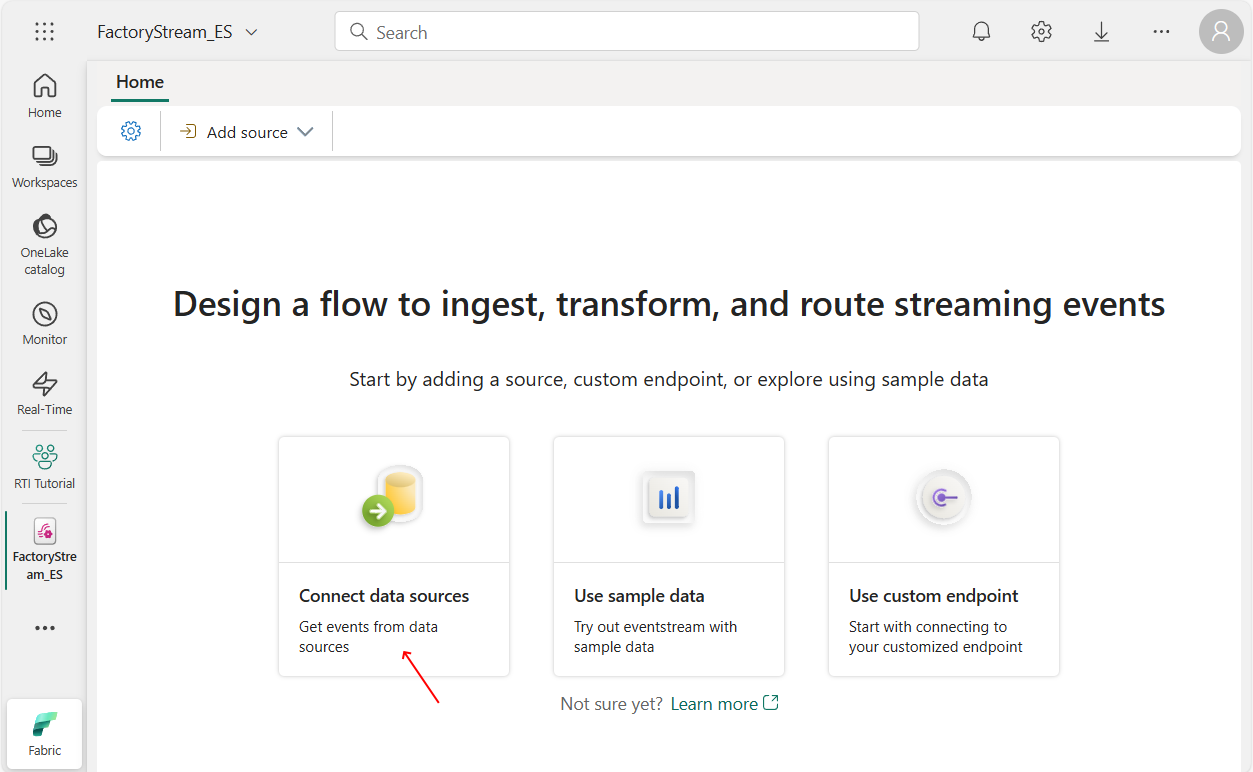
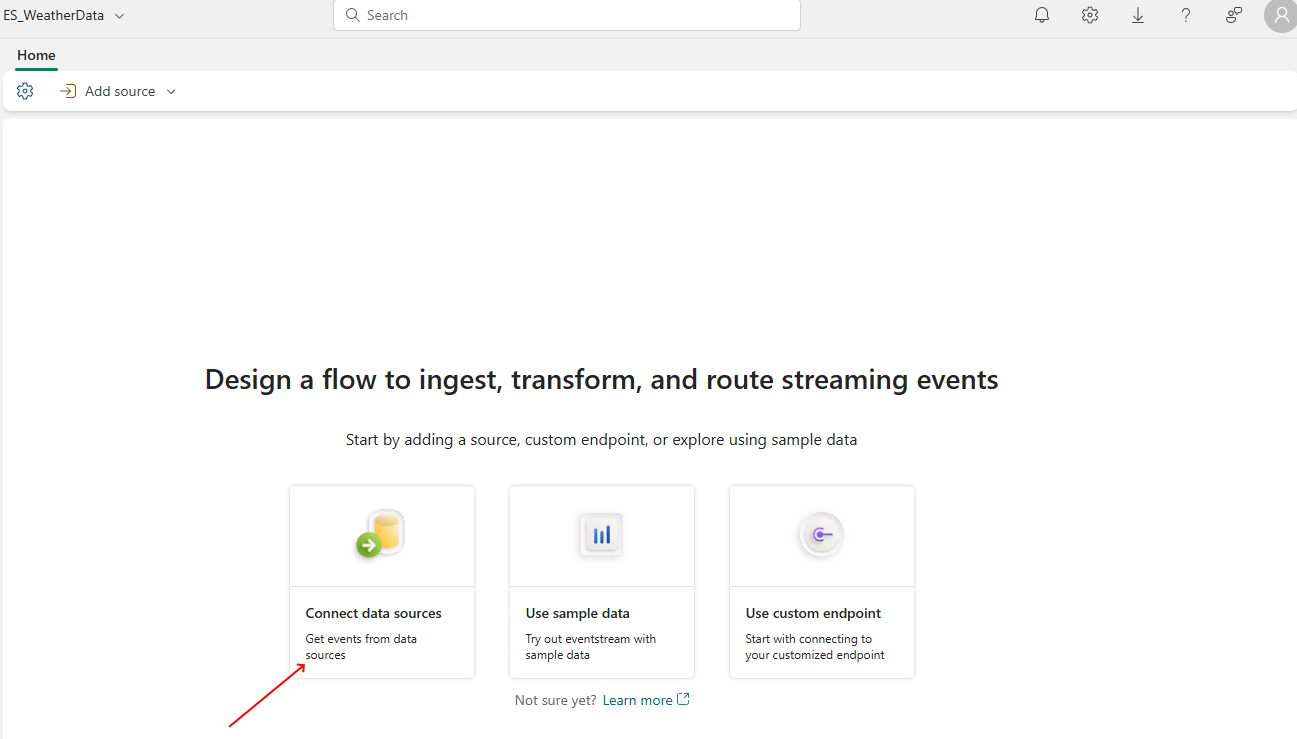
Fixed existing weather eventstream usage

diff --git a/docs/workshop.md b/docs/workshop.md
@@ -395,7 +395,7 @@ For this workshop, Fabric items relevant for this workshop have been pre-created
 
 Steps to execute
 
-1. In your workspace, navigate to 'EH_YCSneakerEventStore' Eventhouse.
+1. In your workspace, navigate to the existing 'EH_YCSneakerEventStore' Eventhouse.
 
 2. In the eventhouse main page, click on KQL Database of the same name 'EH_YCSneakerEventStore'.
 
@@ -459,7 +459,7 @@ Notice that the electric motor starts and stops every 15 minutes so you will see
 
    ![alt text](assets/rtiLabArchitecture_workshop_4.png)
 
-1. **Select your Workspace** in the left pane. In our example, it is `RTI Tutorial`. If you have been assigned a Workspace at the start of this lab, **choose the workspace name** that was provided to you. **Open** the Eventstream named `ES_EnergyMeter` already provided. On the Screen 'Design a flow to ingest, transform, and route streaming events' **click** on `Connect data sources`.
+1. **Open** the Eventstream named `ES_EnergyMeter`, already provided in the 'Factory events folder'. On the Screen 'Design a flow to ingest, transform, and route streaming events' **click** on `Connect data sources`.
 
    ![alt text](assets/image_task04_step03.png)
 
@@ -767,7 +767,7 @@ You will ingest the LoraWan data from an Azure Event Hub.
 
    ![alt text](assets/rtiLabArchitecture_workshop_5.png)
 
-1. **Select your Workspace** in the left pane. In our example, it is `RTI Tutorial`. If you have been assigned a Workspace at the start of this lab, **choose the workspace name** that was provided to you. **Open** the Eventstream named `ES_LoraWanStream` already provided. On the Screen 'Design a flow to ingest, transform, and route streaming events' **click** on `Connect data sources`.
+1. **Open** the Eventstream named `ES_LoraWanStream`, already provided in the 'Factory events folder'. On the Screen 'Design a flow to ingest, transform, and route streaming events' **click** on `Connect data sources`.
 
    ![alt text](assets/image_task05_step03.png)
 
@@ -863,7 +863,6 @@ You will ingest the LoraWan data from an Azure Event Hub.
 | 2 | deviceId | string | $.end_device_ids.device_id |
 | 3 | applicationId | string | $.end_device_ids.application_ids.application_id |
 | 4 | timestamp | datetime | $.received_at |
-
 
 24. **Apply** the mapping.
 
@@ -1069,109 +1068,101 @@ In this section, we will add real-time weather data events. These events are str
 
    ![alt text](assets/rtiLabArchitecture_workshop_7.png)
 
-1. Select your Workspace in the left pane. In our example, it is `RTI Tutorial`. If you have been assigned a Workspace at the start of this lab, choose the workspace name that was provided to you. Then **click** on `+ New Item`. In the pop-out window, **scroll** a little bit down (or use the filters) and **select** `Eventstream`.
-
-   ![alt text](assets/image_task07_step01.png)
-
-2. **Give** the Eventstream the 'name' `WeatherStream_ES` and **click** on `Create`.
-
-   ![alt text](assets/image_task07_step02.png)
-
-3. On the Screen 'Design a flow to ingest, transform, and route streaming events' **click** on `Connect data sources`.
+1. **Open** the Eventstream named `ES_WeatherData`, already provided in the 'Factory events folder'. On the Screen 'Design a flow to ingest, transform, and route streaming events' **click** on `Connect data sources`.
 
    ![alt text](assets/image_task07_step03.png)
 
-4. In the dialog 'Select a data source', **click** on the menu item `New`.
+2. **Click** `Select a data source`. In the dialog **click** on the menu item `New`.
 
    ![alt text](assets/image_task07_step04.png)
 
-5. On the next page, **filter** the list of data sources for 'weather' and **connect** the `Real-time weather data` source.
+3. On the next page, **filter** the list of data sources for 'weather' and **connect** the `Real-time weather data` source.
 
    ![alt text](assets/image_task07_step05.png)
 
-6. In the dialog 'Configure connection settings', **select** a location to ingest real-time weather data. Either **put a pin** somewhere on the map (use the zoom buttons to get a better view) or **type in a location name** like `Helmond-West, Helmond NL` and use the drop-down to get the specific location.
+4. In the dialog 'Configure connection settings', **select** a location to ingest real-time weather data. Either **put a pin** somewhere on the map (use the zoom buttons to get a better view) or **type in a location name** like `Helmond-West, Helmond NL` and use the drop-down to get the specific location.
 
    ![alt text](assets/image_task07_step06.png)
 
-7. **Enter** `WeatherEventsSource` as 'Source name' (using the pencil) and then **click** on the button `Next`.
+5. **Enter** `WeatherEventsSource` as 'Source name' (using the pencil) and then **click** on the button `Next`.
 
    ![alt text](assets/image_task07_step07.png)
 
-8. On the screen 'Review + Connect', **review** all of the information and then **click** on the button `Add`.
+6. On the screen 'Review + Connect', **review** all of the information and then **click** on the button `Add`.
 
    ![alt text](assets/image_task07_step08.png)
 
-9. The source is added to the flow. **Check** for the arrival sample weather data on the Data preview tab.
+7. The source is added to the flow. **Check** for the arrival sample weather data on the Data preview tab.
 
    ![alt text](assets/image_task07_step09.png)
 
-10. The arriving weather data should be sent to the Eventhouse we just created. **Add** an `Eventhouse destination` from the top menu bar 'Add destination' drop down list.
+8. The arriving weather data should be sent to the Eventhouse we just created. **Add** an `Eventhouse destination` from the top menu bar 'Add destination' drop down list.
 
    ![alt text](assets/image_task07_step10.png)
 
-11. First, **select** `Direct ingestion`, not 'Event processing before ingestion'! So, we need to add a table mapping later on as seen in the information box. Second, **Give** this destination a proper 'name' like `EventhouseDestination`. Last, **Select** the Eventhouse and KQL Database we just created as the destination.
+9. First, **select** `Direct ingestion`, not 'Event processing before ingestion'! So, we need to add a table mapping later on as seen in the information box. Second, **Give** this destination a proper 'name' like `EventhouseDestination`. Last, **Select** the Eventhouse and KQL Database we just created as the destination.
 
    ![alt text](assets/image_task07_step11.png)
 
-12. **Save** the destination settings.
+10. **Save** the destination settings.
 
-13. If the Destination is not yet connected to the source, you see this error sign. In that case, just **connect** the `output point` of the 'WeatherStream_ES' to the `input point` of the EventhouseDestination.
+11. If the Destination is not yet connected to the source, you see this error sign. In that case, just **connect** the `output point` of the 'WeatherStream_ES' to the `input point` of the EventhouseDestination.
 
    ![alt text](assets/image_task07_step12.png)
 
-14. Make sure you first **hit** the `refresh` button while the `middle flow item` is selected, before publishing this Eventstream. The next steps rely on sample data for the Eventhouse direct ingestion.
+12. Make sure you first **hit** the `refresh` button while the `middle flow item` is selected, before publishing this Eventstream. The next steps rely on sample data for the Eventhouse direct ingestion.
 
    ![alt text](assets/image_task07_step13.png)
 
-15. Once the destination is connected, **Publish** the Eventstream. This will show the `live` version. **Wait** until all resources are created, this can take a moment until 'loading' has finished.
+13. Once the destination is connected, **Publish** the Eventstream. This will show the `live` version. **Wait** until all resources are created, this can take a moment until 'loading' has finished.
 
    ![alt text](assets/image_task07_step14.png)
 
-16. **Hit** the `Configure` button on the 'Destination', picking a 'destination' table and 'configure' the source. This is the first step of the Get Data wizard.
+14. **Hit** the `Configure` button on the 'Destination', picking a 'destination' table and 'configure' the source. This is the first step of the Get Data wizard.
 
    ![alt text](assets/image_task07_step15.png)
 
-17. We **create a new table** in the KQL Database for the weather data. Name it `BronzeWeather`. Once the table name is accepted, and a data connection is created. Go to the **Next** page.
+15. We **create a new table** in the KQL Database for the weather data. Name it `BronzeWeather`. Once the table name is accepted, and a data connection is created. Go to the **Next** page.
 
    ![alt text](assets/image_task07_step16.png)
 
-18. The table mapping is suggested based on incoming sample data. Notice the 'Waiting for data from the event stream. This could take a few moments' message. **Notice** that one or more rows should be found to support the mapping. The wizard gives us the option to add, remove, and change column values. Here, although not the most perfect mapping (some columns still contain 'Json' values), we **keep this proposed JSON mapping** and, **Finish** the wizard.
+16. The table mapping is suggested based on incoming sample data. Notice the 'Waiting for data from the event stream. This could take a few moments' message. **Notice** that one or more rows should be found to support the mapping. The wizard gives us the option to add, remove, and change column values. Here, although not the most perfect mapping (some columns still contain 'Json' values), we **keep this proposed JSON mapping** and, **Finish** the wizard.
 
    ![alt text](assets/image_task07_step18.png)
 
-19. A summary is shown. We see the table is created, together with the mapping and data connection. **Explore the results** by hitting `Explore` instead of 'close'.
+17. A summary is shown. We see the table is created, together with the mapping and data connection. **Explore the results** by hitting `Explore` instead of 'close'.
 
    ![alt text](assets/image_task07_step19.png)
 
-20. Exploring time series data is done using the KQL Queryset. The predefined query '['BronzeWeather'] | take 10' makes use of the KQL `take` statement, showing a number of random rows in a table if available. **Hit the Run button** while the cursor is placed in the query to execute it. Walk through the different columns of the real-time weather data to get a better understanding of the data arriving. Notice that the original location of the weather data is provided. You will notice two more things:
+18. Exploring time series data is done using the KQL Queryset. The predefined query '['BronzeWeather'] | take 10' makes use of the KQL `take` statement, showing a number of random rows in a table if available. **Hit the Run button** while the cursor is placed in the query to execute it. Walk through the different columns of the real-time weather data to get a better understanding of the data arriving. Notice that the original location of the weather data is provided. You will notice two more things:
 
 * Duplicate rows for the same location and timestamp (see column dateTime) are generated by the real-time weather data service. 
 * Almost all columns have 'dynamic' values with sub-values in them.
 
    ![alt text](assets/image_task07_step20.png)
 
-21. We have fixed the dynamic columns yet in the table mapping. Run this KQL command to show the table mapping as it is now in the bronze table.
+19. We have fixed the dynamic columns yet in the table mapping. Run this KQL command to show the table mapping as it is now in the bronze table.
 
 ```
 .show table BronzeWeather ingestion json mappings 
 ```
 
-22. This results in this simple mapping.
+20. This results in this simple mapping.
 
    ![alt text](assets/image_task07_step21.png)
 
-23. Now, let's check the content of the `BronzeWeather`. **Run** this query.
+21. Now, let's check the content of the `BronzeWeather`. **Run** this query.
 
 ```
 BronzeWeather
 | order by dateTime asc
 ```
 
-24. We see both duplicate rows in the table and most columns work with dynamic field having dynamic 'json' values.
+22. We see both duplicate rows in the table and most columns work with dynamic field having dynamic 'json' values.
 
    ![alt text](assets/image_task07_step22.png)
 
-25. Let's fix both 'flaws' by creating a 'silver' layer using a Materialized View. Unlike a view in eg. SQL Server, each row in this view is actually persisted after creation, so it's very fast when used for querying. **Add and run this materialized view** first: 
+23. Let's fix both 'flaws' by creating a 'silver' layer using a Materialized View. Unlike a view in eg. SQL Server, each row in this view is actually persisted after creation, so it's very fast when used for querying. **Add and run this materialized view** first: 
 
 ```
 .create materialized-view with(lookback=20m, lookback_column = "dateTime", backfill=true, docString="Unique Real-Time Weather Service data entries", folder="MaterializedViews") SilverWeather on table BronzeWeather
@@ -1221,22 +1212,22 @@ longitude = todouble(location.longitude)
 | summarize arg_max(dateTime, *) by dateTime, longitude, latitude
 }
 ```
-26. We now have a materialized view with typed data.
+24. We now have a materialized view with typed data.
 
    ![alt text](assets/image_task07_step23.png)
 
-27. The rows are de-duplicated per location. **Run** this query.
+25. The rows are de-duplicated per location. **Run** this query.
 
 ```
 SilverWeather
 | order by dateTime asc
 ```
 
-28. Notice that we can now work with the right column values and without duplicate rows (per location).
+26. Notice that we can now work with the right column values and without duplicate rows (per location).
 
    ![alt text](assets/image_task07_step24.png)
 
-29. Regarding the bronze table, we do not need to remember all old rows because the materialized view will remember all historical rows. Deleting obsolete 'bronze' rows can be automated. **Run this command** so the BronzeWeather table gets a one-hour retention.
+27. Regarding the bronze table, we do not need to remember all old rows because the materialized view will remember all historical rows. Deleting obsolete 'bronze' rows can be automated. **Run this command** so the BronzeWeather table gets a one-hour retention.
 
 ```
 .alter-merge table BronzeWeather policy retention softdelete = 1h recoverability = disabled
@@ -1248,18 +1239,18 @@ SilverWeather
 
 </div>
 
-30. Let's have some fun with the view. **Run this KQL query** to see the number of rows per location.
+28. Let's have some fun with the view. **Run this KQL query** to see the number of rows per location.
 
 ```
 SilverWeather
 | summarize count() by longitude, latitude
 ```
 
-31. This results in a table like this.
+29. This results in a table like this.
 
    ![alt text](assets/image_task07_step25.png)
 
-32. Let's create a map showing the latest location. **Run this KQL query**.
+30. Let's create a map showing the latest location. **Run this KQL query**.
 
 ```
 SilverWeather
@@ -1271,15 +1262,15 @@ SilverWeather
 )
 ```
 
-33. This results in a map like this.
+31. This results in a map like this.
 
    ![alt text](assets/image_task07_step26.png)
 
-34. In the Visual Formatting, **change the Label column** into 'label'.
+32. In the Visual Formatting, **change the Label column** into 'label'.
 
    ![alt text](assets/image_task07_step27.png)
 
-35. If you **hover over the location you selected**, you will see a label pop up.
+33. If you **hover over the location you selected**, you will see a label pop up.
 
    ![alt text](assets/image_task07_step28.png)
 
